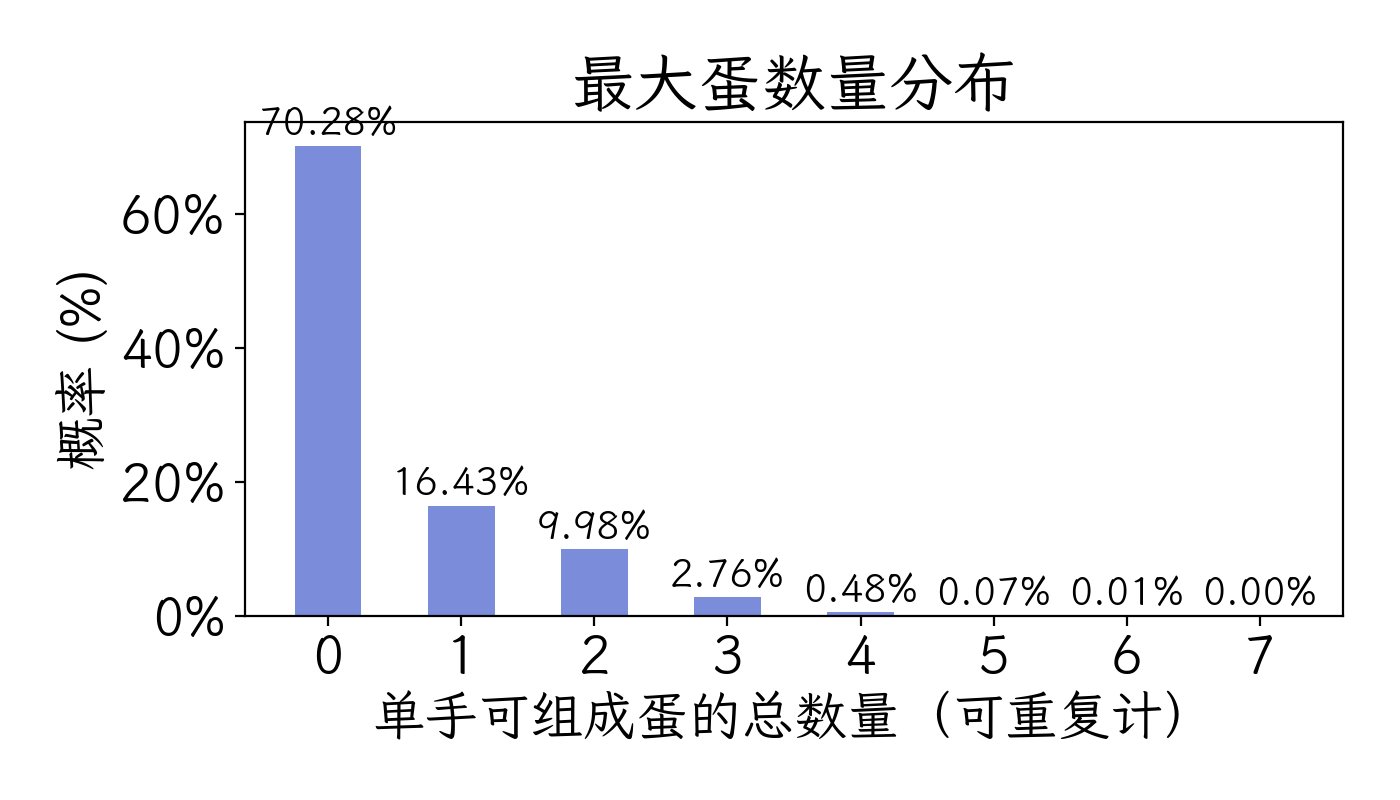
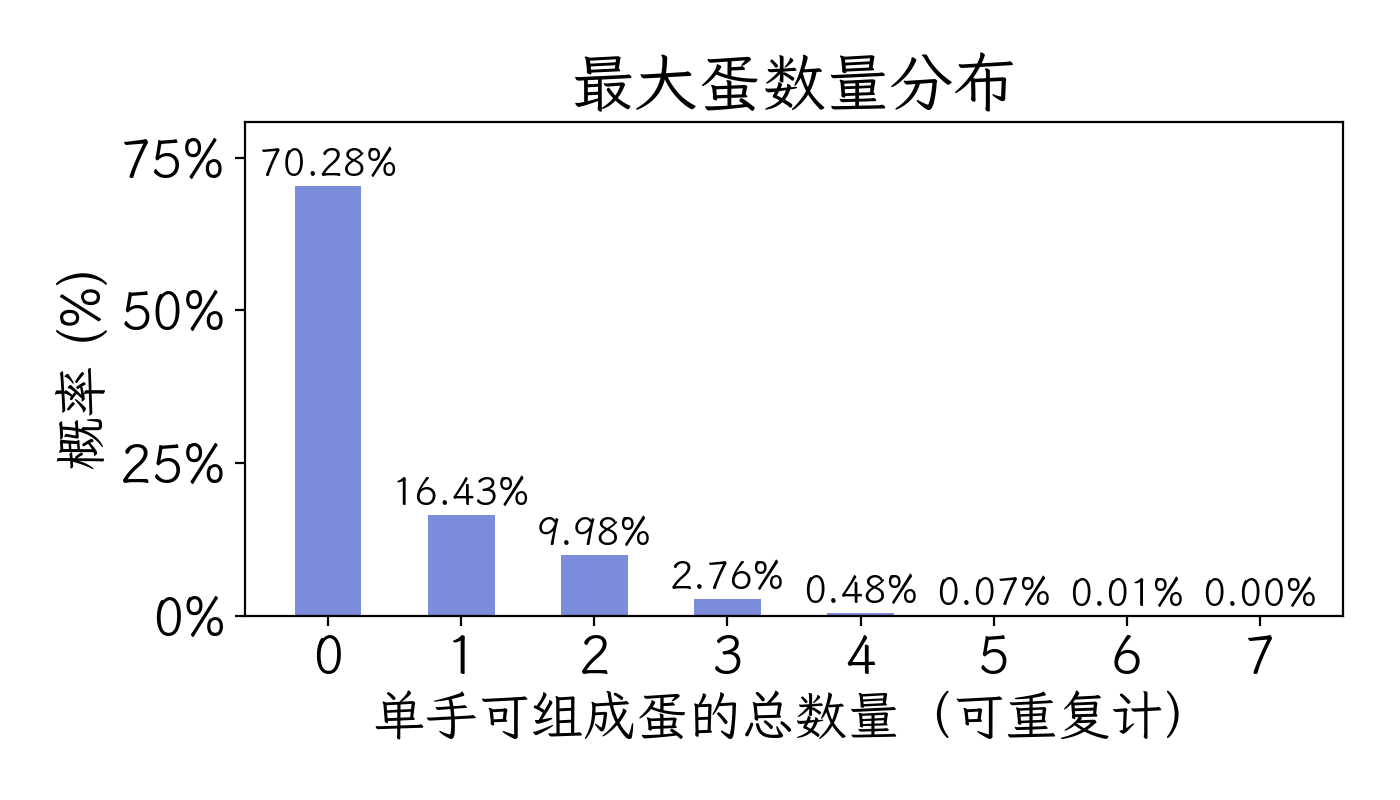
update

diff --git a/cc_majong/src/cc_majong/plotting.py b/cc_majong/src/cc_majong/plotting.py
@@ -195,6 +195,10 @@ def plot_multiplicity_distribution(stats: MultiplicityStats, output_path: Path) 
     for xi, yi in zip(x, y):
         ax.text(xi, yi + 0.005, f"{yi:.2%}", ha="center", va="bottom", fontsize=14)
     ax.yaxis.set_major_formatter(lambda val, _: f"{val*100:.0f}%")
+    ymax = max(y) if y else 0.0
+    if ymax == 0.0:
+        ymax = 0.05
+    ax.set_ylim(0, ymax * 1.15)
 
     _ensure_parent(output_path)
     fig.tight_layout()
@@ -314,6 +318,10 @@ def plot_wait_line_counts(stats: WaitLineStats, output_path: Path) -> None:
     ax.yaxis.set_major_formatter(lambda val, _: f"{val*100:.1f}%")
     for x, y in zip(counts, probs):
         ax.text(x, y + 0.002, f"{y*100:.2f}%", ha="center", va="bottom", fontsize=13)
+    ymax = max(probs) if probs else 0.0
+    if ymax == 0.0:
+        ymax = 0.05
+    ax.set_ylim(0, ymax * 1.15)
 
     _ensure_parent(output_path)
     fig.tight_layout()
@@ -333,6 +341,10 @@ def plot_wait_line_subset(stats: WaitLineStats, output_path: Path) -> None:
     ax.yaxis.set_major_formatter(lambda val, _: f"{val*100:.1f}%")
     for x, y in zip(counts, probs):
         ax.text(x, y + 0.002, f"{y*100:.2f}%", ha="center", va="bottom", fontsize=13)
+    ymax = max(probs) if probs else 0.0
+    if ymax == 0.0:
+        ymax = 0.05
+    ax.set_ylim(0, ymax * 1.15)
 
     _ensure_parent(output_path)
     fig.tight_layout()

diff --git a/cc_majong/output/report.md b/cc_majong/output/report.md
@@ -1,5 +1,7 @@
 # 长春麻将玩“蛋”指南——蒙特卡罗模拟实测报告
 
+> 今天让我们从科研的视角读博（bushi），放松一下。
+
 ## 一、关键结论
 1. **开局直接有蛋 ≈ 29.72%**，其中 **12.61%** 完全纯净、**17.11%** 需要幺鸡补位，相当于每三局就能亮一次蛋。
 2. **单线差一张 → 下一摸**：把余牌视作 123 张等概率牌堆时命中率 **6.50%**，按真实第 14 张则为 **6.52%**，几乎持平，说明“差一张”本身就是低赔率博弈。
@@ -37,14 +39,7 @@
 
 ![纯净赖子柱状图](figures/egg_purity.png)
 
-| 蛋型 | 含赖子 | 纯净 | 赖子协助 |
-| --- | --- | --- | --- |
-| 旋风 | 6.209% | 1.189% | 5.020% |
-| 喜 | 14.297% | 3.795% | 10.502% |
-| 幺 | 6.336% | 3.833% | 2.503% |
-| 九 | 14.432% | 3.911% | 10.521% |
-| 大蛋 | 0.040% | 0.040% | 0.000% |
-| 杠蛋 | 0.202% | 0.202% | 0.000% |
+（详细百分比见附录表 A-1，可与柱状图逐列对照。）
 
 ### 3. 收敛性验证
 ![收敛性分析](figures/convergence.png)
@@ -76,7 +71,7 @@
 
 ![差一张蛋线数量分布](figures/wait_line_counts.png)
 
-> 横坐标意思是：有多少种蛋型都是差一张，摸一张就可能亮蛋的。
+> 横坐标意思是：有多少种蛋型都是差一张，再摸一张就可能亮蛋的。
 
 继续沿用同一批 100,000 副牌谱，每副只取前 13 张视作“轮到我之前”的状态：
 - **理论法：把 13 张起手视作当前手牌，余下 123 张未知牌等概率**，统计哪些牌能一摸成蛋，相当于问“差一张的计划价值”。
@@ -86,39 +81,25 @@
 
 ### 1. 单线差一张：再摸一张能否开蛋？
 
-理论法把余牌看成 123 张未知牌，下一摸命中率 **6.50%**；实测法直接看牌谱里的第 14 张，结果 **6.52%**。两者接近，说明只要严格按照“差一张”判断，不需要额外修正。赖子贡献集中在旋风/喜/九三类蛋，占到各自命中率的 70% 以上。
+> 理论法把余牌看成 123 张未知牌，下一摸命中率 **6.50%**；实测法直接看牌谱里的第 14 张，结果 **6.52%**。两者接近，说明只要严格按照“差一张”判断，不需要额外修正。
+
+单线差一张的“胜率”只有 **6.5%** 左右，不到十五摸中一次，别指望下一张立刻开胡。相对比例就和正常差不多，旋风多了点，毕竟总牌数多四个。赖子贡献集中在旋风/喜/九三类蛋，占到各自命中率的 70% 以上。
 
 ![差一张→下一摸概率](figures/next_draw.png)
 
-| 蛋型 | 理论-纯摸 | 理论-赖子 | 理论-总计 | 实测-纯摸 | 实测-赖子 | 实测-总计 |
-| --- | --- | --- | --- | --- | --- | --- |
-| 旋风 | 0.21% | 1.20% | **1.41%** | 0.20% | 1.23% | **1.44%** |
-| 喜 | 0.50% | 1.85% | **2.35%** | 0.49% | 1.80% | **2.29%** |
-| 幺 | 0.66% | 0.48% | **1.14%** | 0.68% | 0.50% | **1.18%** |
-| 九 | 0.50% | 1.86% | **2.36%** | 0.50% | 1.90% | **2.40%** |
-| 大蛋 | 0.01% | 0.00% | **0.01%** | 0.01% | 0.00% | **0.01%** |
-| 杠蛋 | 0.06% | 0.00% | **0.06%** | 0.06% | 0.00% | **0.06%** |
+（图上的百分比若需精确到小数，请参阅附录表 A-2。）
 
-单线差一张的“胜率”只有 **6.5%** 左右，不到十五摸中一次，别指望下一张立刻开胡。
+
 
 ### 2. 多线差一张：双线及以上待牌
 当起手同时差 ≥2 种蛋时，下一摸命中率直接翻倍：
 
-- **27.41%** 的 13 张起手（约占前述 51.04% “差一张”人群的二分之一）满足“同时差两条线”且未提前亮蛋，剩余 **23.63%** 则是“只有一条线差一张”的情况。
-- 这部分手牌下一摸的理论命中率 **13.41%**，实测 **13.62%**，几乎是单线的两倍。
+- “至少有一条线只差一张就能亮蛋”的情况中，有约28%是“同时差两条线”的
+- 这部分手牌下一摸的理论命中率 **13.41%**（所有双线及以上手牌的平均命中率），实测 **13.62%**，几乎是单线的两倍。
 
 最常见的多线组合与命中率如下（赖子贡献列清楚后续调度方向）：
 
-| 组合 | 触发频率 | 理论-纯摸 | 理论-赖子 | 理论-总计 | 实测-纯摸 | 实测-赖子 | 实测-总计 |
-| --- | --- | --- | --- | --- | --- | --- | --- |
-| 九 + 喜 | 9.64% | 2.11% | 11.64% | **13.75%** | 2.16% | 11.67% | **13.83%** |
-| 九 + 幺 | 7.80% | 3.65% | 7.84% | **11.50%** | 3.68% | 8.61% | **12.29%** |
-| 喜 + 幺 | 7.79% | 3.64% | 7.88% | **11.52%** | 3.67% | 8.01% | **11.68%** |
-| 喜 + 旋风 | 5.49% | 1.41% | 13.24% | **14.65%** | 1.28% | 12.98% | **14.26%** |
-| 九 + 旋风 | 5.42% | 1.37% | 13.31% | **14.68%** | 1.66% | 14.02% | **15.68%** |
-| 九 + 喜 + 幺 | 3.20% | 3.51% | 15.10% | **18.61%** | 3.13% | 15.67% | **18.79%** |
-| 九 + 喜 + 旋风 | 2.18% | 0.83% | 21.13% | **21.96%** | 0.92% | 21.39% | **22.31%** |
-| 九 + 喜 + 旋风 + 幺 | 0.86% | 3.13% | 22.82% | **25.96%** | 3.50% | 22.14% | **25.64%** |
+（Top 组合的具体数值列在附录表 A-3，可配合图中柱形使用。）
 
 ![多线差一张命中率（Top 6）](figures/multi_wait_combos.png)
 
@@ -156,3 +137,46 @@ PYTHONPATH=cc_majong/src python -m cc_majong.refresh  # 重新计算差一张 & 
 ## 七、参考资料
 - 波克游戏官网《长春麻将玩法说明》（纸牌房规整理）。
 - 吉林地区玩家口述《长春麻将风圈杠口径》采访笔记。
+
+## 附录：图表对应数据表
+
+### 表 A-1 纯净 vs. 赖子贡献
+
+| 蛋型 | 含赖子 | 纯净 | 赖子协助 |
+| --- | --- | --- | --- |
+| 旋风 | 6.209% | 1.189% | 5.020% |
+| 喜 | 14.297% | 3.795% | 10.502% |
+| 幺 | 6.336% | 3.833% | 2.503% |
+| 九 | 14.432% | 3.911% | 10.521% |
+| 大蛋 | 0.040% | 0.040% | 0.000% |
+| 杠蛋 | 0.202% | 0.202% | 0.000% |
+
+> 对应“纯净赖子柱状图”，用于读取精确数值或替换自家房规。
+
+### 表 A-2 单线差一张 → 下一摸命中率
+
+| 蛋型 | 理论-纯摸 | 理论-赖子 | 理论-总计 | 实测-纯摸 | 实测-赖子 | 实测-总计 |
+| --- | --- | --- | --- | --- | --- | --- |
+| 旋风 | 0.21% | 1.20% | **1.41%** | 0.20% | 1.23% | **1.44%** |
+| 喜 | 0.50% | 1.85% | **2.35%** | 0.49% | 1.80% | **2.29%** |
+| 幺 | 0.66% | 0.48% | **1.14%** | 0.68% | 0.50% | **1.18%** |
+| 九 | 0.50% | 1.86% | **2.36%** | 0.50% | 1.90% | **2.40%** |
+| 大蛋 | 0.01% | 0.00% | **0.01%** | 0.01% | 0.00% | **0.01%** |
+| 杠蛋 | 0.06% | 0.00% | **0.06%** | 0.06% | 0.00% | **0.06%** |
+
+> 对应“差一张→下一摸概率”，分列显示理论 / 实测、纯摸 / 赖子贡献。
+
+### 表 A-3 多线差一张 Top 组合
+
+| 组合 | 触发频率 | 理论-纯摸 | 理论-赖子 | 理论-总计 | 实测-纯摸 | 实测-赖子 | 实测-总计 |
+| --- | --- | --- | --- | --- | --- | --- | --- |
+| 九 + 喜 | 9.64% | 2.11% | 11.64% | **13.75%** | 2.16% | 11.67% | **13.83%** |
+| 九 + 幺 | 7.80% | 3.65% | 7.84% | **11.50%** | 3.68% | 8.61% | **12.29%** |
+| 喜 + 幺 | 7.79% | 3.64% | 7.88% | **11.52%** | 3.67% | 8.01% | **11.68%** |
+| 喜 + 旋风 | 5.49% | 1.41% | 13.24% | **14.65%** | 1.28% | 12.98% | **14.26%** |
+| 九 + 旋风 | 5.42% | 1.37% | 13.31% | **14.68%** | 1.66% | 14.02% | **15.68%** |
+| 九 + 喜 + 幺 | 3.20% | 3.51% | 15.10% | **18.61%** | 3.13% | 15.67% | **18.79%** |
+| 九 + 喜 + 旋风 | 2.18% | 0.83% | 21.13% | **21.96%** | 0.92% | 21.39% | **22.31%** |
+| 九 + 喜 + 旋风 + 幺 | 0.86% | 3.13% | 22.82% | **25.96%** | 3.50% | 22.14% | **25.64%** |
+
+> 对应“多线差一张命中率（Top 6）”，强调各组合的触发频率与命中率。

diff --git a/cc_majong/AGENTS.md b/cc_majong/AGENTS.md
@@ -18,3 +18,5 @@
 多蛋同时待牌该怎么押？实测有点太高了吧，就是首先得识别出前13张有两组差一个的，这些当中有多少是补了以后至少能成一个蛋的，请重新仔细考虑实测那里所有的逻辑，重新计算和更新数据图表文字
 
 给本仓库添加README、做适当的设置后提交
+重新起个标题，听起来像科研论文，但保留玩“蛋”这个词，要高大上，听起来专业。搜索网络，参考毕导。
+
